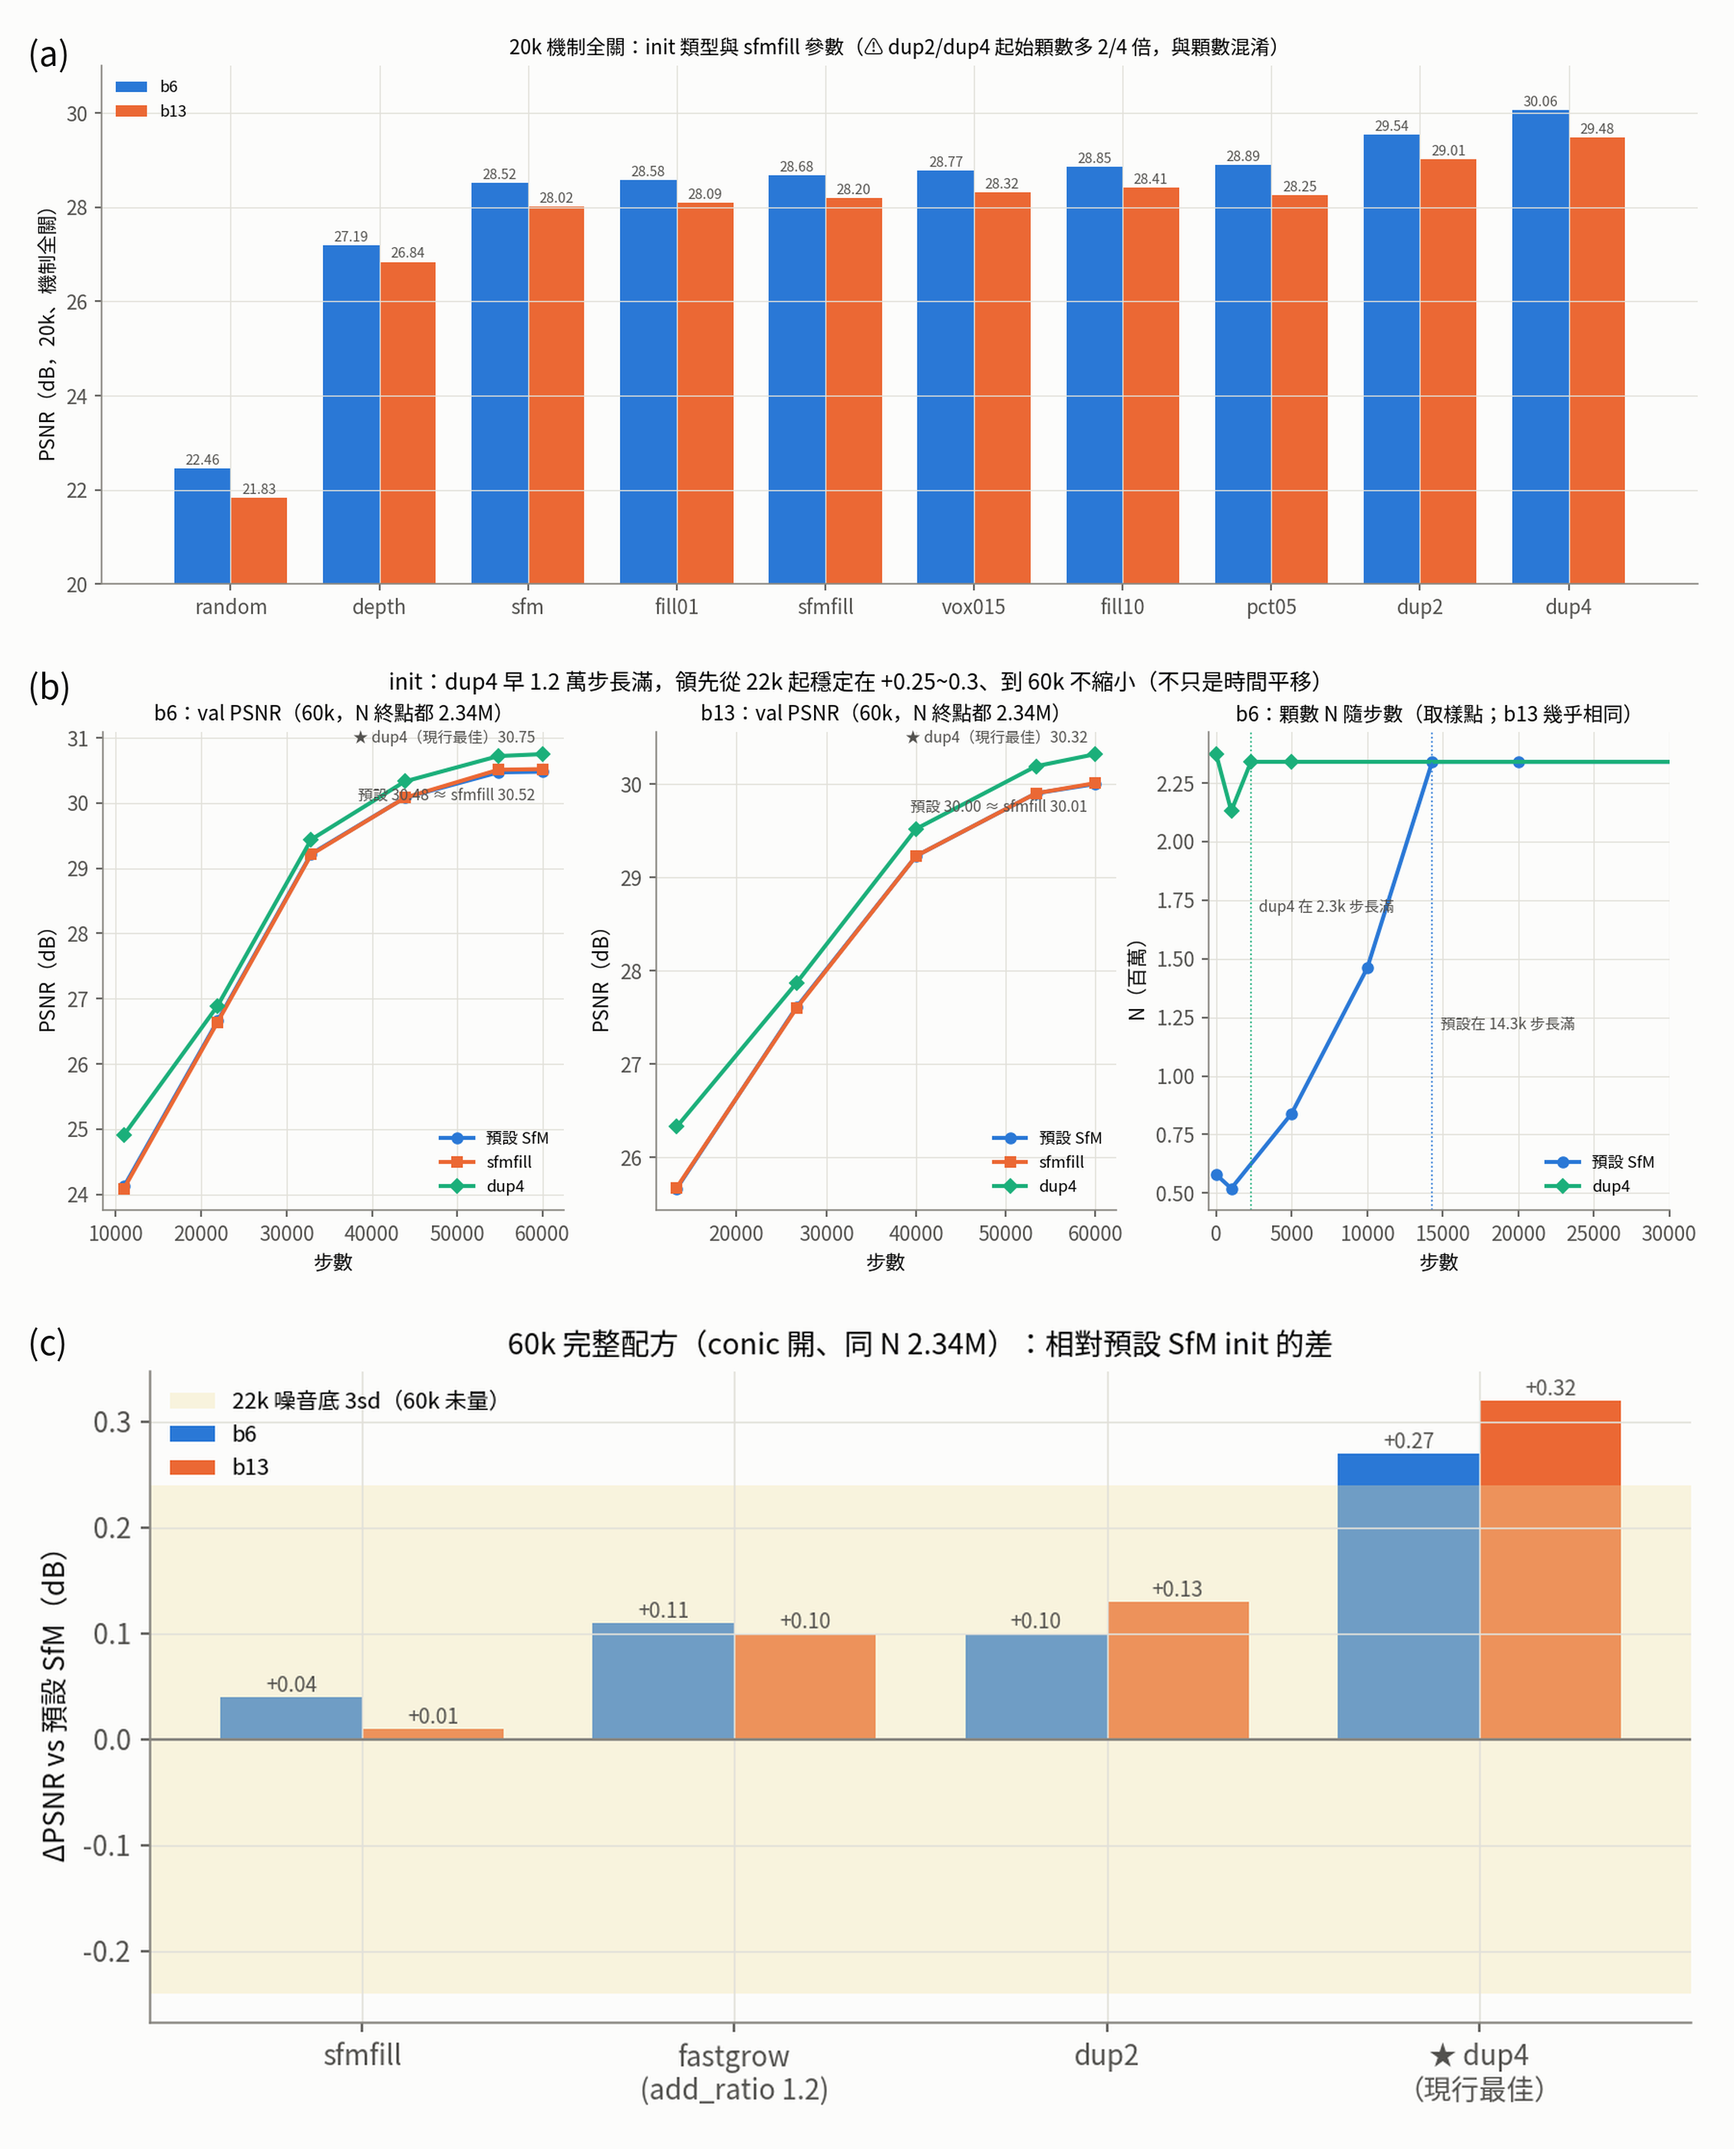
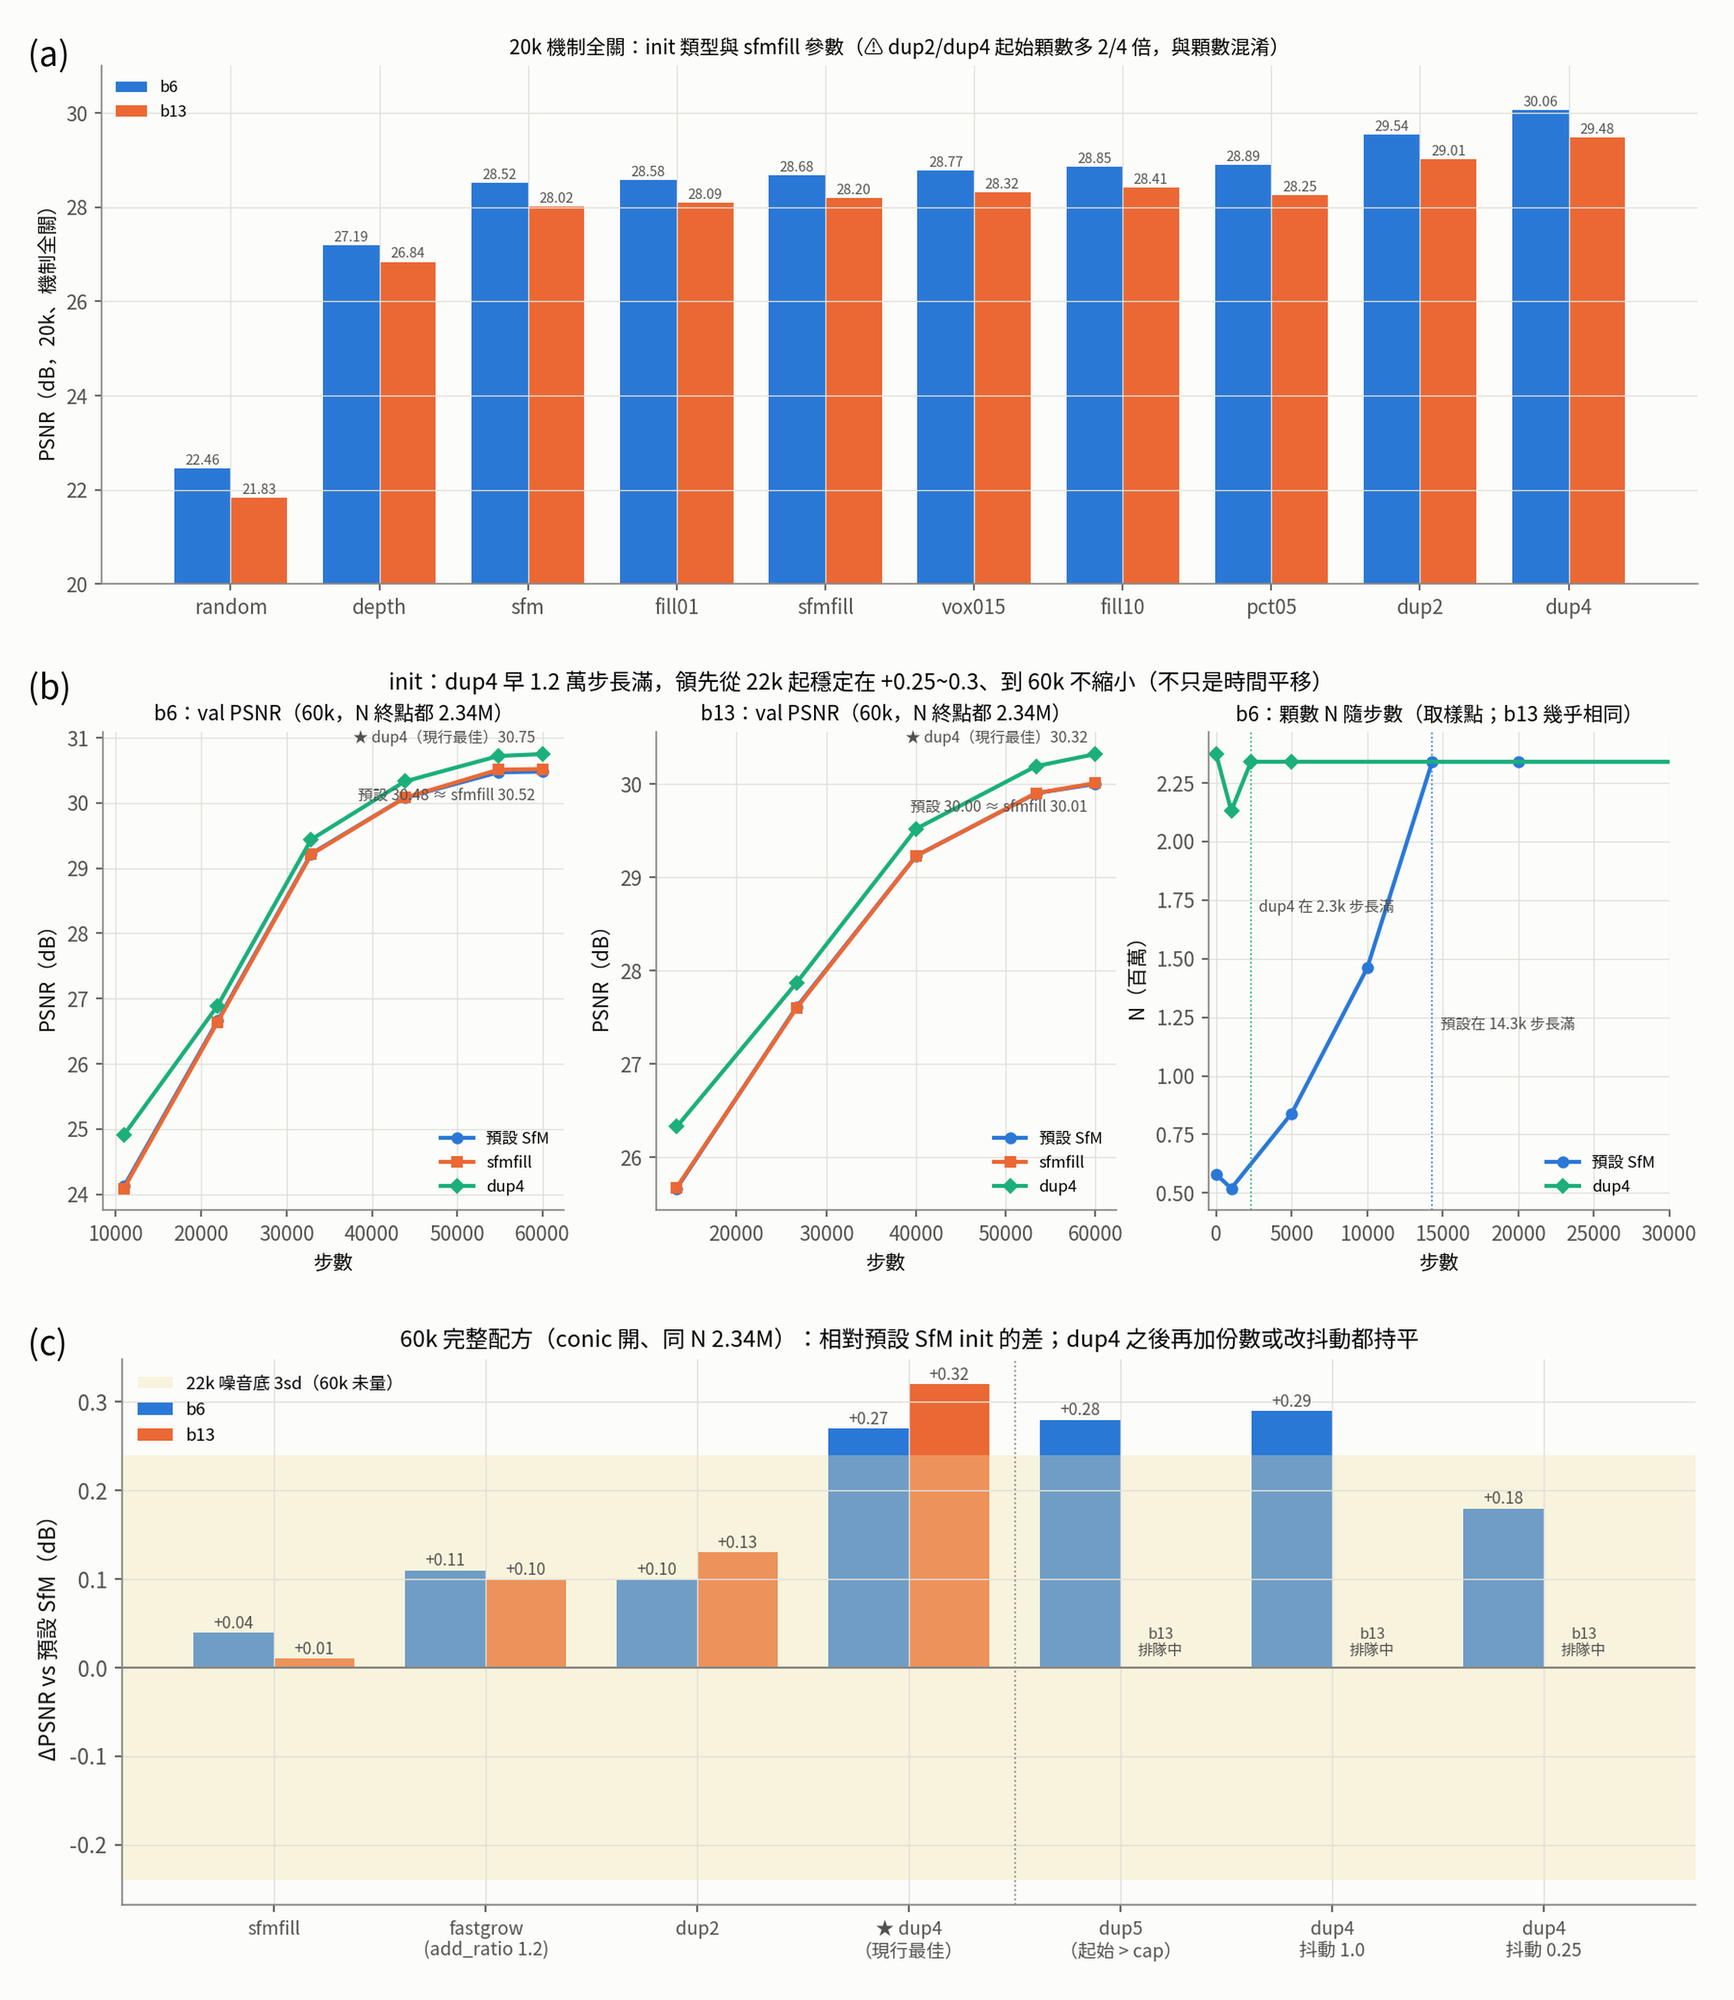
實驗分析 08：dup5／dup4 抖動 1.0／0.25（b6 60k）與 dup4 持平 => dup4 是頂
- 圖 8(c) 加三臂（b13 排在 4x4 之後）；08 表、研究總覽 §0／§4、實驗總表同步
- dup8 不排：起始約 4.7M、峰值約 10 GB，超出 6GB 信封

Claude-Session: https://claude.ai/code/session_01ASvjmyPMC4F37W41o8s8Aq

diff --git a/tools/plot_analysis.py b/tools/plot_analysis.py
@@ -147,18 +147,23 @@ def n08_init20k(d):
 
 
 def n08_init60k(d):
-    arms = ["sfmfill", "fastgrow\n(add_ratio 1.2)", "dup2", "★ dup4\n（現行最佳）"]
-    b6 = [0.04, 0.11, 0.10, 0.27]
-    b13 = [0.01, 0.10, 0.13, 0.32]
+    # 10-03：dup5（起始 > cap）與 dup4 抖動 1.0／0.25 只跑了 b6（b13 在佇列，4x4 之後）
+    arms = ["sfmfill", "fastgrow\n(add_ratio 1.2)", "dup2", "★ dup4\n（現行最佳）", "dup5\n（起始 > cap）", "dup4\n抖動 1.0", "dup4\n抖動 0.25"]
+    b6 = [0.04, 0.11, 0.10, 0.27, 0.28, 0.29, 0.18]
+    b13 = [0.01, 0.10, 0.13, 0.32, np.nan, np.nan, np.nan]
     x = np.arange(len(arms)); wd = 0.38
-    fig, ax = plt.subplots(figsize=(8.6, 4.2))
+    fig, ax = plt.subplots(figsize=(11, 4.4))
     barlabels(ax, ax.bar(x - wd / 2, b6, wd, color=C1, label="b6"), fmt="{:+.2f}")
-    barlabels(ax, ax.bar(x + wd / 2, b13, wd, color=C2, label="b13"), fmt="{:+.2f}")
+    bb = ax.bar(x + wd / 2, [v if v == v else 0 for v in b13], wd, color=C2, label="b13")
+    barlabels(ax, [r for r, v in zip(bb, b13) if v == v], fmt="{:+.2f}")
+    for xi, v in zip(x, b13):
+        if v != v:
+            ax.text(xi + wd / 2, 0.01, "b13\n排隊中", ha="center", va="bottom", fontsize=7, color=INK2)
     ax.axhspan(-0.24, 0.24, color="#f1e3a6", alpha=0.35, lw=0, label="22k 噪音底 3sd（60k 未量）")
-    ax.axhline(0, color=MUTED, lw=1)
-    ax.set_xticks(x); ax.set_xticklabels(arms); ax.set_ylabel("ΔPSNR vs 預設 SfM（dB）")
+    ax.axhline(0, color=MUTED, lw=1); ax.axvline(3.5, color=MUTED, lw=0.8, ls=":")
+    ax.set_xticks(x); ax.set_xticklabels(arms, fontsize=8.5); ax.set_ylabel("ΔPSNR vs 預設 SfM（dB）")
     ax.legend(fontsize=8, loc="upper left")
-    ax.set_title("60k 完整配方（conic 開、同 N 2.34M）：相對預設 SfM init 的差", fontsize=10.5)
+    ax.set_title("60k 完整配方（conic 開、同 N 2.34M）：相對預設 SfM init 的差；dup4 之後再加份數或改抖動都持平", fontsize=10.5)
     save(fig, d, "n08_init60k.png")
 
 

diff --git a/紀錄/實驗分析/08_初始化.md b/紀錄/實驗分析/08_初始化.md
@@ -15,7 +15,8 @@
 
 ## 結論
 
-- **現行（10-03）**：dup4 是現行最佳 init（圖中 ★）；塊內 held-out 的 LPIPS 兩塊都最好（`12` §6）。更激進的 dup5、dup4 抖動 1.0／0.25 正在跑 60k（b6），跑到一半都與 dup4 平手（dup5 @54,800 30.73 vs 30.72；抖動 @21,920 26.88／26.86 vs 26.89）。
+- **現行（10-03）**：dup4 是現行最佳 init（圖中 ★）；塊內 held-out 的 LPIPS 兩塊都最好（`12` §6）。更激進的 dup5（起始 > cap）、dup4 抖動 1.0／0.25 的 b6 60k 都與 dup4 持平（30.76／30.77／30.66 vs 30.75）
+  => dup4 是頂：再加份數或改抖動沒有額外增益；b13 排在 4x4 之後。dup8 沒排：起始約 4.7M 顆、峰值約 10 GB，超出 6GB 信封。
 - **SfM init 大勝 depth-init**（+1.33／+1.18 dB，四項同向）；random init 族群崩潰（-6 dB）。depth-init 已退役。
 - **dup4（SfM 點複製 4 份＋抖動）是現行最佳 init**：60k 完整配方同 N 下 **+0.27／+0.32 dB**、SSIM/LPIPS/紋理比同向，終點渲染還更便宜（Load -5.6%／-8.3%）。
 - 機制分辨（60k）：**fastgrow（只把每次增生倍率 1.05→1.2）拿到約 +0.10~0.11**、dup2 +0.10~0.13、dup4 +0.27~0.32
@@ -74,6 +75,9 @@
 | fastgrow（add_ratio 1.2） | 30.59 / .891 / .122 / .800 | +0.11 | 30.10 / .898 / .122 / .825 | +0.10 |
 | dup2 | 30.58 / .891 / .121 / .802 | +0.10 | 30.13 / .900 / .119 / .828 | +0.13 |
 | **dup4** | **30.75 / .894 / .115 / .805** | **+0.27** | **30.32 / .904 / .111 / .834** | **+0.32** |
+| dup5（起始 2.96M > cap） | 30.76 / .895 / .115 / .807 | +0.28 | ⏳ 排隊中 | |
+| dup4 抖動 1.0 | 30.77 / .895 / .115 / .805 | +0.29 | ⏳ 排隊中 | |
+| dup4 抖動 0.25 | 30.66 / .893 / .117 / .805 | +0.18 | ⏳ 排隊中 | |
 
 - 終點 N 都是 2.34M（cap 2.6M 的 90%）、峰值實佔 4.27~4.40 GB => 不是顆數效應。
 - 面板 b（軌跡）：dup4 在 step ~2.3k 長滿（預設 ~14.3k），∫N dstep +13.8%（估訓練時間 +~9%）；領先從 22k 起穩定在 +0.25~0.3、到 60k 不縮小；sfmfill 與預設逐點相同。
